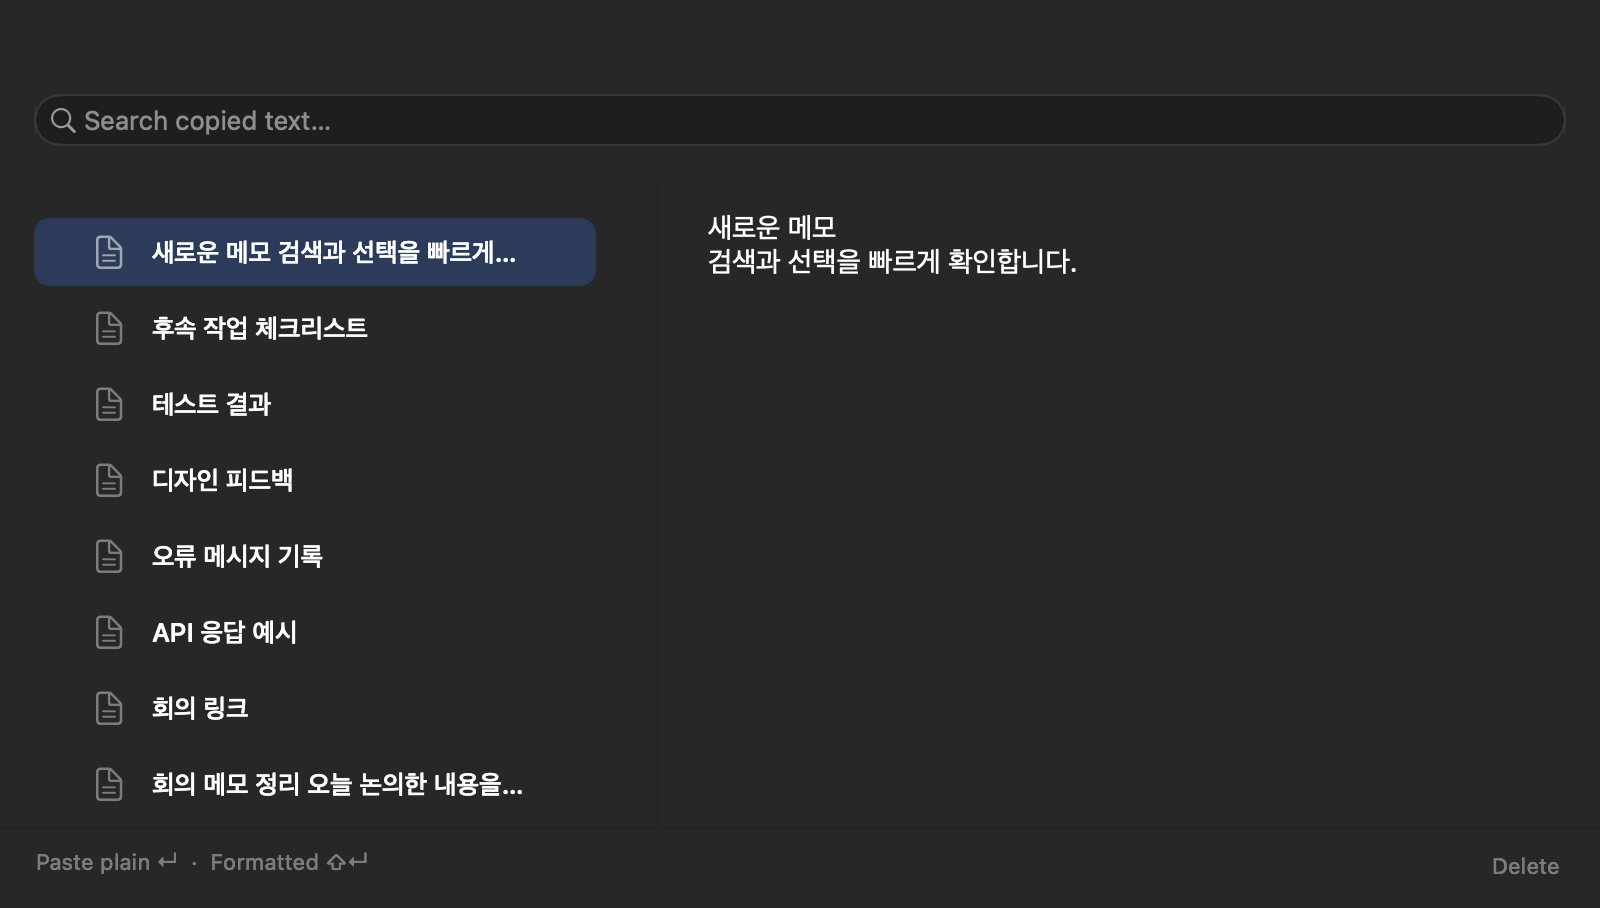
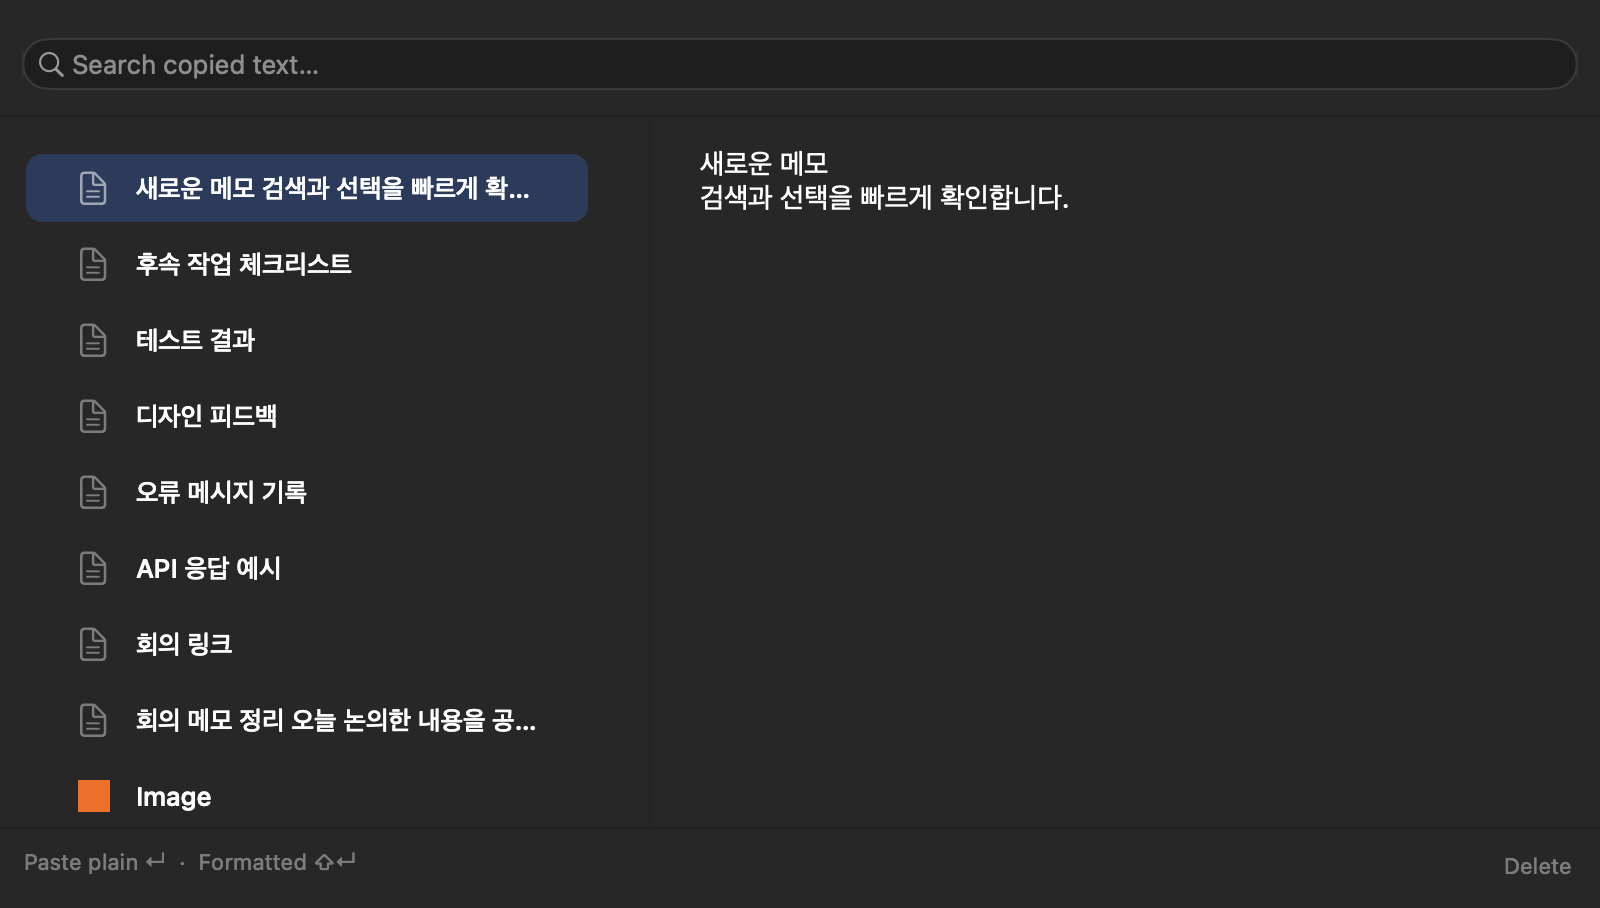
fix: 클립보드 패널 상단과 왼쪽 여백 축소

diff --git a/Sources/App/ClipboardHistoryPanelController.swift b/Sources/App/ClipboardHistoryPanelController.swift
@@ -213,7 +213,7 @@ final class ClipboardHistoryPanelController: NSObject, NSTableViewDataSource, NS
             label.setContentCompressionResistancePriority(.defaultLow, for: .horizontal)
             cell.addSubview(label)
             NSLayoutConstraint.activate([
-                icon.leadingAnchor.constraint(equalTo: cell.leadingAnchor, constant: 12),
+                icon.leadingAnchor.constraint(equalTo: cell.leadingAnchor, constant: 8),
                 icon.centerYAnchor.constraint(equalTo: cell.centerYAnchor),
                 icon.widthAnchor.constraint(equalToConstant: 26),
                 icon.heightAnchor.constraint(equalToConstant: 26),
@@ -362,24 +362,24 @@ final class ClipboardHistoryPanelController: NSObject, NSTableViewDataSource, NS
         root.addSubview(deleteButton)
 
         NSLayoutConstraint.activate([
-            searchField.leadingAnchor.constraint(equalTo: root.leadingAnchor, constant: 18),
-            searchField.trailingAnchor.constraint(equalTo: root.trailingAnchor, constant: -18),
-            searchField.topAnchor.constraint(equalTo: root.safeAreaLayoutGuide.topAnchor, constant: 12),
+            searchField.leadingAnchor.constraint(equalTo: root.leadingAnchor, constant: 12),
+            searchField.trailingAnchor.constraint(equalTo: root.trailingAnchor, constant: -12),
+            searchField.topAnchor.constraint(equalTo: root.topAnchor, constant: 16),
             searchField.heightAnchor.constraint(equalToConstant: 32),
             searchSeparator.leadingAnchor.constraint(equalTo: root.leadingAnchor),
             searchSeparator.trailingAnchor.constraint(equalTo: root.trailingAnchor),
-            searchSeparator.topAnchor.constraint(equalTo: searchField.bottomAnchor, constant: 12),
+            searchSeparator.topAnchor.constraint(equalTo: searchField.bottomAnchor, constant: 10),
             searchSeparator.heightAnchor.constraint(equalToConstant: 1),
-            listScroll.leadingAnchor.constraint(equalTo: root.leadingAnchor, constant: 14),
-            listScroll.topAnchor.constraint(equalTo: searchSeparator.bottomAnchor, constant: 8),
-            listScroll.bottomAnchor.constraint(equalTo: footerSeparator.topAnchor, constant: -8),
+            listScroll.leadingAnchor.constraint(equalTo: root.leadingAnchor, constant: 10),
+            listScroll.topAnchor.constraint(equalTo: searchSeparator.bottomAnchor, constant: 6),
+            listScroll.bottomAnchor.constraint(equalTo: footerSeparator.topAnchor, constant: -6),
             listScroll.widthAnchor.constraint(equalTo: root.widthAnchor, multiplier: 0.38),
             columnSeparator.leadingAnchor.constraint(equalTo: listScroll.trailingAnchor, constant: 10),
             columnSeparator.topAnchor.constraint(equalTo: searchSeparator.bottomAnchor),
             columnSeparator.bottomAnchor.constraint(equalTo: footerSeparator.topAnchor),
             columnSeparator.widthAnchor.constraint(equalToConstant: 1),
             textScroll.leadingAnchor.constraint(equalTo: columnSeparator.trailingAnchor, constant: 12),
-            textScroll.trailingAnchor.constraint(equalTo: root.trailingAnchor, constant: -18),
+            textScroll.trailingAnchor.constraint(equalTo: root.trailingAnchor, constant: -12),
             textScroll.topAnchor.constraint(equalTo: listScroll.topAnchor),
             textScroll.bottomAnchor.constraint(equalTo: listScroll.bottomAnchor),
             imagePreview.leadingAnchor.constraint(equalTo: textScroll.leadingAnchor),
@@ -393,11 +393,11 @@ final class ClipboardHistoryPanelController: NSObject, NSTableViewDataSource, NS
             footerSeparator.trailingAnchor.constraint(equalTo: root.trailingAnchor),
             footerSeparator.topAnchor.constraint(equalTo: footer.topAnchor, constant: -10),
             footerSeparator.heightAnchor.constraint(equalToConstant: 1),
-            footer.leadingAnchor.constraint(equalTo: root.leadingAnchor, constant: 18),
+            footer.leadingAnchor.constraint(equalTo: root.leadingAnchor, constant: 12),
             footer.trailingAnchor.constraint(lessThanOrEqualTo: deleteButton.leadingAnchor, constant: -12),
             footer.bottomAnchor.constraint(equalTo: root.safeAreaLayoutGuide.bottomAnchor, constant: -12),
             footer.heightAnchor.constraint(equalToConstant: 18),
-            deleteButton.trailingAnchor.constraint(equalTo: root.trailingAnchor, constant: -18),
+            deleteButton.trailingAnchor.constraint(equalTo: root.trailingAnchor, constant: -12),
             deleteButton.centerYAnchor.constraint(equalTo: footer.centerYAnchor)
         ])
     }

diff --git a/Tests/TidyTapTests/SettingsViewControllerTests.swift b/Tests/TidyTapTests/SettingsViewControllerTests.swift
@@ -320,12 +320,14 @@ final class SettingsViewControllerTests: XCTestCase {
         let view = try XCTUnwrap(panel.panel.contentView)
         view.layoutSubtreeIfNeeded()
         let search = try XCTUnwrap(view.subviews.compactMap { $0 as? NSSearchField }.first)
-        XCTAssertGreaterThanOrEqual(view.bounds.maxY - search.frame.maxY, view.safeAreaInsets.top + 8)
+        XCTAssertGreaterThanOrEqual(view.bounds.maxY - search.frame.maxY, 14)
+        XCTAssertLessThanOrEqual(view.bounds.maxY - search.frame.maxY, 24)
         XCTAssertTrue(panel.panel.standardWindowButton(.closeButton)?.isHidden == true)
         XCTAssertEqual(view.bounds.height, 380, accuracy: 1,
                        "a mixed history reserves preview space before the image is selected")
         let listScroll = try XCTUnwrap(view.subviews.compactMap { $0 as? NSScrollView }
             .first { $0.documentView is NSTableView })
+        XCTAssertLessThanOrEqual(listScroll.frame.minX, 12)
         XCTAssertTrue(listScroll.autohidesScrollers)
         XCTAssertFalse(listScroll.drawsBackground)
         let list = try XCTUnwrap(listScroll.documentView as? NSTableView)
@@ -417,7 +419,8 @@ final class SettingsViewControllerTests: XCTestCase {
         view.layoutSubtreeIfNeeded()
 
         XCTAssertEqual(view.bounds.width, 800, accuracy: 1)
-        XCTAssertGreaterThanOrEqual(view.bounds.maxY - search.frame.maxY, view.safeAreaInsets.top + 8)
+        XCTAssertGreaterThanOrEqual(view.bounds.maxY - search.frame.maxY, 14)
+        XCTAssertLessThanOrEqual(view.bounds.maxY - search.frame.maxY, 24)
         XCTAssertLessThanOrEqual(footer.frame.maxX, delete.frame.minX - 8)
         for row in 0..<list.numberOfRows {
             let cell = try XCTUnwrap(list.view(atColumn: 0, row: row, makeIfNecessary: true) as? NSTableCellView)

diff --git a/docs/CLIPBOARD_HISTORY_PANEL_REDESIGN_PLAN.md b/docs/CLIPBOARD_HISTORY_PANEL_REDESIGN_PLAN.md
@@ -20,7 +20,7 @@
 
 사용자 화면에서는 제목 표시줄의 빈 영역과 신호등 버튼, 검색 포커스 테두리의 제목 표시줄 침범, 대비가 강한 두 직사각형과 상시 보이는 스크롤바, 짧은 항목 하나에 비해 큰 빈 공간이 확인됐다. 초기 패널은 `fullSizeContentView`인 760×520 창에 검색창을 루트 상단 24pt로 고정하고, 목록·미리보기에 각각 불투명 스크롤 뷰를 배치했다. [패널 코드](../Sources/App/ClipboardHistoryPanelController.swift)에서 이 레이아웃과 창 크기·재질을 바로잡는다. 복사/붙여넣기 오류나 중복 실행 문제를 시각 변경만으로 해결했다고 간주하지 않는다.
 
-Apple의 [macOS 27 AppKit 세션](https://developer.apple.com/videos/play/wwdc2026/289/), [Liquid Glass 도입 가이드](https://developer.apple.com/documentation/technologyoverviews/adopting-liquid-glass), [재질 HIG](https://developer.apple.com/design/human-interface-guidelines/materials), [패널 HIG](https://developer.apple.com/design/human-interface-guidelines/panels)를 적용 기준으로 삼는다. 특히 Liquid Glass는 조작·탐색 계층에 절제해 사용하고, 기록 목록과 미리보기에는 가독성 높은 표준 재질을 쓴다. 제목 표시줄과 검색창은 안전 영역/레이아웃 가이드로 분리한다. macOS 27의 새 효과나 모서리 API를 구현 전제로 두지 않는다. 현재 개발 환경은 macOS 26.5.2·SDK 26.5이고 앱의 최소 지원 버전은 macOS 15.1이므로, 27 전용 API는 SDK와 실제 OS를 확보한 뒤 별도 검토한다.
+Apple의 [macOS 27 AppKit 세션](https://developer.apple.com/videos/play/wwdc2026/289/), [Liquid Glass 도입 가이드](https://developer.apple.com/documentation/technologyoverviews/adopting-liquid-glass), [재질 HIG](https://developer.apple.com/design/human-interface-guidelines/materials), [패널 HIG](https://developer.apple.com/design/human-interface-guidelines/panels)를 적용 기준으로 삼는다. 특히 Liquid Glass는 조작·탐색 계층에 절제해 사용하고, 기록 목록과 미리보기에는 가독성 높은 표준 재질을 쓴다. 이 패널은 창 버튼을 숨긴 투명 제목 표시줄 안에 검색창을 배치하되, 포커스 링이 창 모서리와 겹치지 않는 안쪽 여백을 둔다. macOS 27의 새 효과나 모서리 API를 구현 전제로 두지 않는다. 현재 개발 환경은 macOS 26.5.2·SDK 26.5이고 앱의 최소 지원 버전은 macOS 15.1이므로, 27 전용 API는 SDK와 실제 OS를 확보한 뒤 별도 검토한다.
 
 macOS 27의 [시스템 Liquid Glass 조절 슬라이더](https://developer.apple.com/videos/play/wwdc2026/102/)는 앱의 별도 설정으로 복제하지 않는다. 기본 `NSGlassEffectView`는 슬라이더 설정을 자동 상속한다. 기존 설정 화면의 수동 틴트·테두리를 제거하고, 히스토리 패널은 시스템 외관을 상속한다. macOS 26에서는 기본 AppKit 글래스를 사용하고, 기존 최소 지원 버전에서는 표준 표면으로 돌아간다. 27에서의 실제 슬라이더 반응은 해당 OS·SDK가 준비된 뒤 확인한다.
 
@@ -39,7 +39,7 @@ macOS 27의 [시스템 Liquid Glass 조절 슬라이더](https://developer.apple
 ## 작업 순서
 
 1. **기준 화면 확보:** 실제 사용자 기록과 클립보드를 읽지 않는 기존 [오프스크린 렌더 테스트](../Tests/TidyTapTests/SettingsViewControllerTests.swift)로 텍스트·이미지의 전/후 화면을 남긴다. 0개, 1개, 여러 개, 긴 텍스트, 이미지, 검색 결과 없음도 시험 데이터로 확인한다.
-2. **창과 초점 수정:** 제목 표시줄·창 버튼 정책을 정리하고 검색창을 안전 영역 안에 배치한다. `⌥C` 호출 시 히스토리 패널만 보이는지, 검색 포커스 링이 잘리지 않는지 먼저 통과시킨다. 패널 크기와 작은 화면에서의 위치를 조정한다.
+2. **창과 초점 수정:** 제목 표시줄·창 버튼 정책을 정리하고 검색창을 투명 제목 표시줄 안쪽에 충분히 띄워 배치한다. `⌥C` 호출 시 히스토리 패널만 보이는지, 검색 포커스 링이 잘리지 않는지 먼저 통과시킨다. 패널 크기와 작은 화면에서의 위치를 조정한다.
 3. **콘텐츠 재배치:** 하나의 차분한 콘텐츠 표면 위에 목록과 미리보기를 구분한다. 행 높이·여백·선택 강조·이미지 썸네일·빈 상태·스크롤바를 다듬는다. 재질은 콘텐츠를 가리지 않는 범위에서 시스템 제공 뷰를 우선 사용한다.
 4. **조작 회귀:** 검색, 한글 조합, ↑/↓, 한 번 클릭, Enter/Shift+Enter, 두 번 클릭, Esc, 호출 키 재입력, 삭제의 기존 동작을 유지한다. 열기·탐색·취소만으로 클립보드가 바뀌지 않는지도 확인한다.
 5. **시각·접근성 검증:** 선택한 어두운 외관에서 투명도 줄이기·대비 증가, 짧고 긴 데이터, 이미지, 좁은 디스플레이와 전체 화면을 캡처해 시안과 비교한다. 키보드만으로 조작 가능한지와 VoiceOver 레이블을 확인하고, 실제 앱에서 입력 위치 복귀·한 번 붙여넣기를 재검증한다. 결과를 [수용 기준 현황](CLIPBOARD_HISTORY_ACCEPTANCE_STATUS.md)에 통과·실패·미실행으로 기록한다.

diff --git a/docs/CLIPBOARD_HISTORY_ACCEPTANCE_STATUS.md b/docs/CLIPBOARD_HISTORY_ACCEPTANCE_STATUS.md
@@ -33,7 +33,7 @@
 
 ## 패널 재설계 검증 — 2026-09-28
 
-[재설계 계획](CLIPBOARD_HISTORY_PANEL_REDESIGN_PLAN.md)의 단일 패널 구성으로 코드 화면을 갱신했다. 합성 텍스트·이미지만 사용한 [실제 AppKit 렌더링 스크린샷](images/clipboard-history-rendered-text-synthetic.png)에서 검색·목록·미리보기·하단 안내가 하나의 표면에 표시되고 선택 행이 구분된다. 너비는 800pt를 유지하며, 텍스트만 있는 짧은 기록은 260pt 이상, 이미지가 있는 기록은 열기 전에 380pt 이상의 높이를 잡는다. 제목 표시줄 안전 영역 간격, 숨긴 창 버튼, 스크롤 영역 투명 배경·자동 숨김, 이미지 선택·결과 없음 상태를 비표시 창 테스트로 확인했다. 전체 `xcodebuild ... CODE_SIGNING_ALLOWED=NO test`는 통과했다.
+[재설계 계획](CLIPBOARD_HISTORY_PANEL_REDESIGN_PLAN.md)의 단일 패널 구성으로 코드 화면을 갱신했다. 합성 텍스트·이미지만 사용한 [실제 AppKit 렌더링 스크린샷](images/clipboard-history-rendered-text-synthetic.png)에서 검색·목록·미리보기·하단 안내가 하나의 표면에 표시되고 선택 행이 구분된다. 너비는 800pt를 유지하며, 텍스트만 있는 짧은 기록은 260pt 이상, 이미지가 있는 기록은 열기 전에 380pt 이상의 높이를 잡는다. 창 버튼을 숨긴 제목 표시줄의 위쪽 여백을 16pt로 줄이고 검색·목록의 왼쪽 여백을 정렬했다. 검색창 경계와 숨긴 창 버튼, 스크롤 영역 투명 배경·자동 숨김, 이미지 선택·결과 없음 상태를 비표시 창 테스트로 확인했다. 전체 `xcodebuild ... CODE_SIGNING_ALLOWED=NO test`는 통과했다.
 
 이 스크린샷은 **사용자 기록이나 설치 앱을 캡처한 것이 아니다**. 새 빌드의 물리 단축키 호출, 실제 검색 포커스 테두리, 원래 앱으로의 붙여넣기, 다른 화면·보조 기술에서의 외관은 이번 재설계 후 아직 실사용으로 재확인하지 않았다. 따라서 AC-11·AC-20을 포함해 위 표의 `부분` 판정은 유지한다.
 
